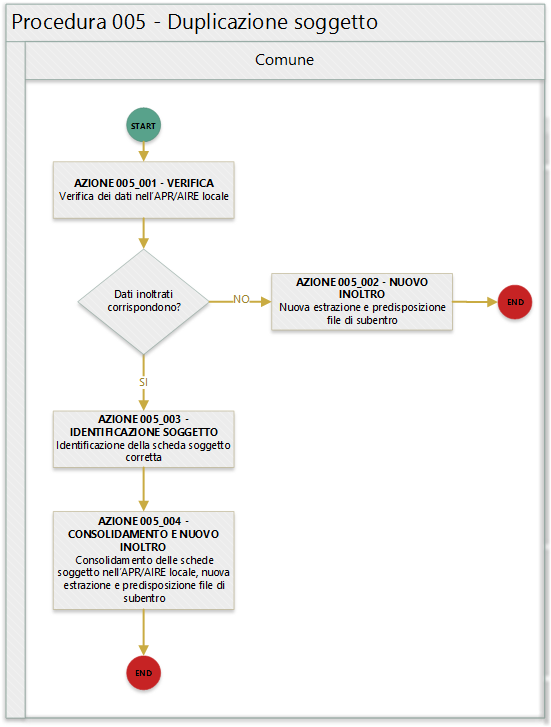
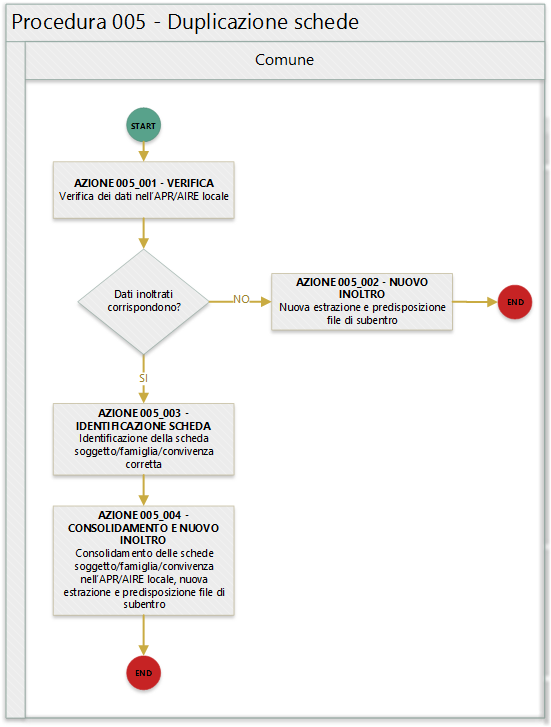
Aggiornata procedura 005 e 006

diff --git a/TAB01_ANOMALIE_ANPR.md b/TAB01_ANOMALIE_ANPR.md
@@ -11,11 +11,11 @@
 |	EA002	|	Soggetto presente in AT con  DA uguali a quelli del comune ma CF del comune assente	| warning non bloccante | [Procedura 002 - Soggetto presente in AT con CF non corrispondente](procedure/PROCEDURA_002.md) |
 |	EA003	|	Soggetto presente in AT con  DA uguali a quelli del comune ma CF diverso	| warning non bloccante | [Procedura 002 - Soggetto presente in AT con CF non corrispondente](procedure/PROCEDURA_002.md) |
 |	EA029	|	Codice fiscale calcolato dai  DA del comune non presente in AT	| warning non bloccante | [Procedura 003 - CF calcolato dai dati anagrafici non presente in AT](procedure/PROCEDURA_003.md) |
-|	EA030	|	CF di un soggetto residente  in piu' comuni	| warning non bloccante | [Procedura 005 - Duplicazione soggetto](procedure/PROCEDURA_005.md) |
-|	EA031	|	CF di un soggetto residente  sia in Italia che all'estero (AIRE)	| warning da rimuovere prima del subentro | [Procedura 005 - Duplicazione soggetto](procedure/PROCEDURA_005.md) |
-|	EA036	|	Soggetto registrato piu' volte sia con il CF base che con quello che risolve l'omocodia  	| warning non bloccante | [Procedura 005 - Duplicazione soggetto](procedure/PROCEDURA_005.md) |
+|	EA030	|	CF di un soggetto residente  in piu' comuni	| warning non bloccante | [Procedura 005 - Duplicazione scheda](procedure/PROCEDURA_005.md) |
+|	EA031	|	CF di un soggetto residente  sia in Italia che all'estero (AIRE)	| warning da rimuovere prima del subentro | [Procedura 005 - Duplicazione scheda](procedure/PROCEDURA_005.md) |
+|	EA036	|	Soggetto registrato piu' volte sia con il CF base che con quello che risolve l'omocodia  	| warning non bloccante | [Procedura 005 - Duplicazione scheda](procedure/PROCEDURA_005.md) |
 |	EA038	|	Soggetto con data di nascita non coincidente  con quella presente nel CF	| warning da rimuovere prima del subentro | [Procedura 004 - CF presente con errore nella data di nascita o sesso](procedure/PROCEDURA_004.md)  |
-|	EA040	|	Soggetto registrato piu' volte  sia con il CF collegato che con l'ultimo	| warning non bloccante | [Procedura 005 - Duplicazione soggetto](procedure/PROCEDURA_005.md) |
+|	EA040	|	Soggetto registrato piu' volte  sia con il CF collegato che con l'ultimo	| warning non bloccante | [Procedura 005 - Duplicazione scheda](procedure/PROCEDURA_005.md) |
 |	EA042	|	Soggetto con sesso non coincidente  con quello presente nel CF	| warning da rimuovere prima del subentro | [Procedura 004 - CF presente con errore nella data di nascita o sesso](procedure/PROCEDURA_004.md) |
 |	EA047	|	Soggetto presente  nell'archivio AIRE e nel MAE dei cittadini non residenti (IRREPERIBILI, RIMPATRIATI, DECEDUTI,  TRASFERITI)	| warning non bloccante | NON APPLICATA: in attesa di collegamento con MAE |
 |	EA048	|	Codice fiscale formalmente errato	| warning da rimuovere prima del subentro | [Procedura 001 - Codice Fiscale non corretto o errato](procedure/PROCEDURA_001.md) |
@@ -49,7 +49,7 @@
 |	EC096	|	Comune/provincia di registrazione atto di cessazione/annullamento matrimonio [@] inesistente	| warning non bloccante | [Procedura 006 - Codice inesistente su tabella di riferimento](procedure/PROCEDURA_006.md) |
 |	EC164	|	Codice stato istruttoria non presente sulla tabella di riferimento [Codice-Tabella]	| warning non bloccante | [Procedura 006 - Codice inesistente su tabella di riferimento](procedure/PROCEDURA_006.md) |
 |	EC165	|	Codice tipo fine unione non presente sulla tabella di riferimento [Codice-Tabella]	| warning da rimuovere prima del subentro | [Procedura 006 - Codice inesistente su tabella di riferimento](procedure/PROCEDURA_006.md) |
-|	EF003	|	Scheda famiglia/convivenza duplicata in ANPR	| warning da rimuovere prima del subentro | |
+|	EF003	|	Scheda famiglia/convivenza duplicata in ANPR	| warning da rimuovere prima del subentro | [Procedura 005 - Duplicazione scheda](procedure/PROCEDURA_005.md) |
 |	EF004	|	Progressivo ordine gia' assegnato ad altro soggetto della scheda famiglia/convivenza	| warning non bloccante | |
 |	EF008	|	Intestatario della scheda famiglia/convivenza assente	| warning da rimuovere prima del subentro | |
 |	EF009	|	Intestatario della scheda famiglia/convivenza non univoco	| warning da rimuovere prima del subentro | |

diff --git a/procedure/PROCEDURA_006.md b/procedure/PROCEDURA_006.md
@@ -34,8 +34,8 @@ In quanto segue si riporta la procedura suggerita ai Comuni per la gestione dell
 - EC081 - Comune/provincia di registrazione atto di matrimonio inesistente [**NON PRESENTE SU [https://anpr.readthedocs.io/en/latest/](https://anpr.readthedocs.io/en/latest/)**];
 - EC087 - Comune di rilascio permesso di soggiorno inesistente o non valido alla data di rilascio [**NON PRESENTE SU [https://anpr.readthedocs.io/en/latest/](https://anpr.readthedocs.io/en/latest/)**];
 - EC096 - Comune/provincia di registrazione atto di cessazione/annullamento matrimonio inesistente [**NON PRESENTE SU [https://anpr.readthedocs.io/en/latest/](https://anpr.readthedocs.io/en/latest/)**];
-- EC164 - Codice stato istruttoria non presente sulla [tabella di riferimento 30](https://anpr.readthedocs.io/en/latest/tab_stato_procedimento_amministrativo.html) **VERIFICARE CORRETTEZZA TABELLA**
-- EC165 - Codice tipo fine unione non presente sulla [tabella di riferimento 43](https://anpr.readthedocs.io/en/latest/tab_cessazione_unione_civile___convivenze.html)
+- EC164 - Codice stato istruttoria non presente sulla [tabella di riferimento 30](https://anpr.readthedocs.io/en/latest/tab_stato_procedimento_amministrativo.html) **VERIFICARE CORRETTEZZA TABELLA**;
+- EC165 - Codice tipo fine unione non presente sulla [tabella di riferimento 43](https://anpr.readthedocs.io/en/latest/tab_cessazione_unione_civile___convivenze.html).
 
 
 >**WARNING NON RISULTANO USATE LE TABELLE**

diff --git a/procedure/PROCEDURA_005.md b/procedure/PROCEDURA_005.md
@@ -9,7 +9,8 @@ In quanto segue si riporta la procedura suggerita ai Comuni per la gestione dell
 - EA030 - *codice fiscale* di un soggetto residente in più comuni;
 - EA031 - *codice fiscale* di un soggetto residente sia in Italia che all'estero (AIRE);
 - EA036 - soggetto registrato più volte sia con il *codice fiscale* base che con quello che risolve l'omocodia;
-- EA040 - soggetto registrato più volte sia con il *codice fiscale* collegato che con l'ultimo.
+- EA040 - soggetto registrato più volte sia con il *codice fiscale* collegato che con l'ultimo;
+- EF003 - scheda famiglia/convivenza duplicata in ANPR.
 
 
 ## Precondizione
